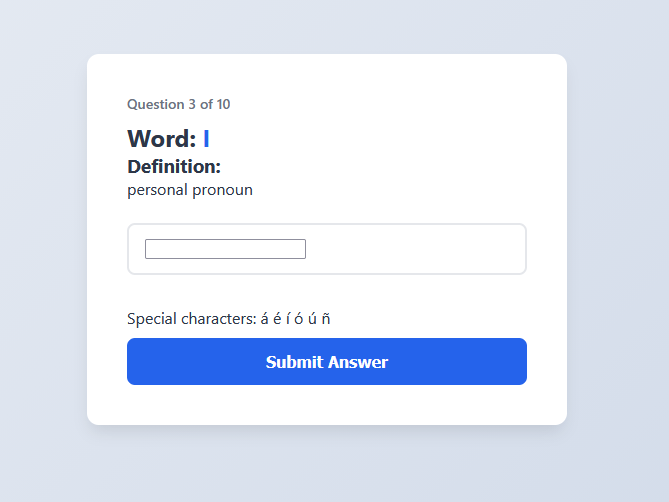
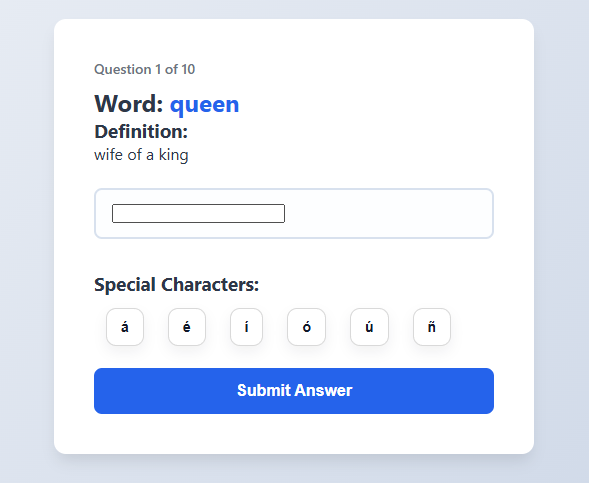
added ability to copy special chars to clipboard, updated stying for special chars

diff --git a/static/app.js b/static/app.js
@@ -1,0 +1,42 @@
+// JS: loop through "a few elements"
+const nodes = document.querySelectorAll(".js-item");
+
+nodes.forEach((node, i) => {
+if (i >= nodes.length) return;
+    node.addEventListener("click", () => {
+        const value = node.dataset.value;
+        // Copy the text inside the text field
+        navigator.clipboard.writeText(value)
+        showToast("Copied to clipboard")
+    });
+});
+
+function showToast(msg) {
+    const t = document.createElement('div');
+    t.textContent = msg;
+
+    t.style.position = 'fixed';
+    t.style.left = '50%';
+    t.style.bottom = '24px';
+    t.style.transform = 'translateX(-50%)';
+    t.style.padding = '8px 12px';
+    t.style.background = 'rgba(0,0,0,0.75)';
+    t.style.color = '#fff';
+    t.style.fontSize = '12px';
+    t.style.borderRadius = '999px';
+    t.style.zIndex = 9999;
+    t.style.opacity = '0';
+    t.style.transition = 'opacity 160ms ease, transform 160ms ease';
+
+    document.body.appendChild(t);
+
+    requestAnimationFrame(() => {
+      t.style.opacity = '1';
+      t.style.transform = 'translateX(-50%) translateY(0)';
+    });
+
+    setTimeout(() => {
+      t.style.opacity = '0';
+      t.remove();
+    }, 900);
+  }

diff --git a/assets/quiz.html b/assets/quiz.html
@@ -5,6 +5,7 @@
     <meta name="viewport" content="width=device-width, initial-scale=1.0">
     <title>Vocab Quiz</title>
     <link rel="stylesheet" href="/static/style.css">
+    <script src="/static/app.js" defer></script>
 </head>
 <body>
     <main class="quiz-container">
@@ -31,10 +32,13 @@
                     </label>
             </div>
             {{ if .SpecialChars }}
+            <h3>Special Characters:</h3>
             <div class="special-characters">
-                <p>
-                    Special characters: {{ .SpecialChars }}
-                </p>
+            <ul id="itemList">
+                {{ range .SpecialChars }}
+                    <button type="button" class="js-item" data-value="{{.}}">{{.}}
+                {{end}}
+            </ul>
             </div>
             {{ end }}
             <button type="submit" class="submit-btn">Submit Answer</button>

diff --git a/static/style.css b/static/style.css
@@ -174,3 +174,39 @@ button[type="submit"]:hover {
 button[type="submit"]:active {
     transform: scale(0.98);
 }
+
+#itemList li {
+  list-style: none;     /* optional: remove bullets */
+  margin: 6px;
+}
+
+#itemList button.js-item {
+  display: inline-flex;
+  align-items: center;
+  justify-content: center;
+
+  padding: 10px 14px;
+
+  border: 1px solid rgba(0,0,0,0.15);
+  border-radius: 10px;
+
+  background: #fff;
+  color: #111827;
+
+  font-size: 14px;
+  font-weight: 600;
+
+  cursor: pointer;
+  transition: transform 120ms ease, background-color 150ms ease, box-shadow 150ms ease;
+  box-shadow: 0 6px 14px rgba(17, 24, 39, 0.06);
+  margin: 12px;
+}
+
+#itemList button.js-item:hover {
+  background: #f3f4f6;
+  transform: translateY(-1px);
+}
+
+#itemList button.js-item:active {
+  transform: translateY(0);
+}

diff --git a/quiz.go b/quiz.go
@@ -38,24 +38,24 @@ var languages = map[string]string{
 	//"zh": "Simplified Chinsese"
 }
 
-var specialChars = map[string]string{
-	"ca": "à ç é è í ï ó ò ú ü",
-	"cs": "á č ď é ě í ň ó ř š ť ú ů ý ž",
-	"da": "æ ø å",
-	"de": "ä ö ü ß",
-	"es": "á é í ó ú ñ",
-	"fi": "ä ö å",
-	"fr": "â, ê, î, ô, û",
-	"ga": "á ḃ ċ ḋ é ḟ ġ í ṁ ó ṗ ṡ ṫ ú",
-	"it": "à è é ì ò ó ù",
-	"ku": "ç ê î ł ň ř ş û ü",
-	"lt": "ą č ė į š ų ū ž",
-	"nl": "ë ï ö ü é",
-	"no": "æ ø å é ô",
-	"pl": "ą ć ę ł ń ó ś ź",
-	"pt": "à á â ã é ê í ó ô õ ú ç ü",
-	"sv": "å ä ö",
-	"tr": "â ç ğ î ı ö ş ü û",
+var specialChars = map[string][]string{
+	"ca": {"à", "ç", "é", "è", "í", "ï", "ó", "ò", "ú", "ü"},
+	"cs": {"á", "č", "ď", "é", "ě", "í", "ň", "ó", "ř", "š", "ť", "ú", "ů", "ý", "ž"},
+	"da": {"æ", "ø", "å"},
+	"de": {"ä", "ö", "ü", "ß"},
+	"es": {"á", "é", "í", "ó", "ú", "ñ"},
+	"fi": {"ä", "ö", "å"},
+	"fr": {"â", "ê", "î", "ô", "û"},
+	"ga": {"á", "ḃ", "ċ", "ḋ", "é", "ḟ", "ġ", "í", "ṁ", "ó", "ṗ", "ṡ", "ṫ", "ú"},
+	"it": {"à", "è", "é", "ì", "ò", "ó", "ù"},
+	"ku": {"ç", "ê", "î", "ł", "ň", "ř", "ş", "û", "ü"},
+	"lt": {"ą", "č", "ė", "į", "š", "ų", "ū", "ž"},
+	"nl": {"ë", "ï", "ö", "ü", "é"},
+	"no": {"æ", "ø", "å", "é", "ô"},
+	"pl": {"ą", "ć", "ę", "ł", "ń", "ó", "ś", "ź"},
+	"pt": {"à", "á", "â", "ã", "é", "ê", "í", "ó", "ô", "õ", "ú", "ç", "ü"},
+	"sv": {"å", "ä", "ö"},
+	"tr": {"â", "ç", "ğ", "î", "ı", "ö", "ş", "ü", "û"},
 }
 
 // generate a list of X vocab questions to quiz on based on the importance of the words

diff --git a/handlers.go b/handlers.go
@@ -38,7 +38,7 @@ type UserSession struct {
 	FromLang        string
 	NumberQuestions int
 	Languages       map[string]string
-	SpecialChars    string
+	SpecialChars    []string
 }
 
 func (app *QuizApp) handleCreateQuiz(w http.ResponseWriter, r *http.Request) {
@@ -71,7 +71,7 @@ func (app *QuizApp) handleCreateQuiz(w http.ResponseWriter, r *http.Request) {
 		difficult_rating, _ := strconv.ParseFloat(r.FormValue("difficult_rating"), 32)
 		special, ok := specialChars[targetLang]
 		if !ok {
-			special = ""
+			special = nil
 		}
 		db, err := download.GetDictionary(nativeLang, targetLang)
 		if err != nil {
@@ -121,7 +121,7 @@ func (app *QuizApp) handleQuiz(w http.ResponseWriter, r *http.Request) {
 		QuestionIndex int
 		Total         int
 		Question      data.Translation
-		SpecialChars  string
+		SpecialChars  []string
 	}{
 		QuestionIndex: session.CurrentIndex + 1,
 		Total:         len(session.Questions),
